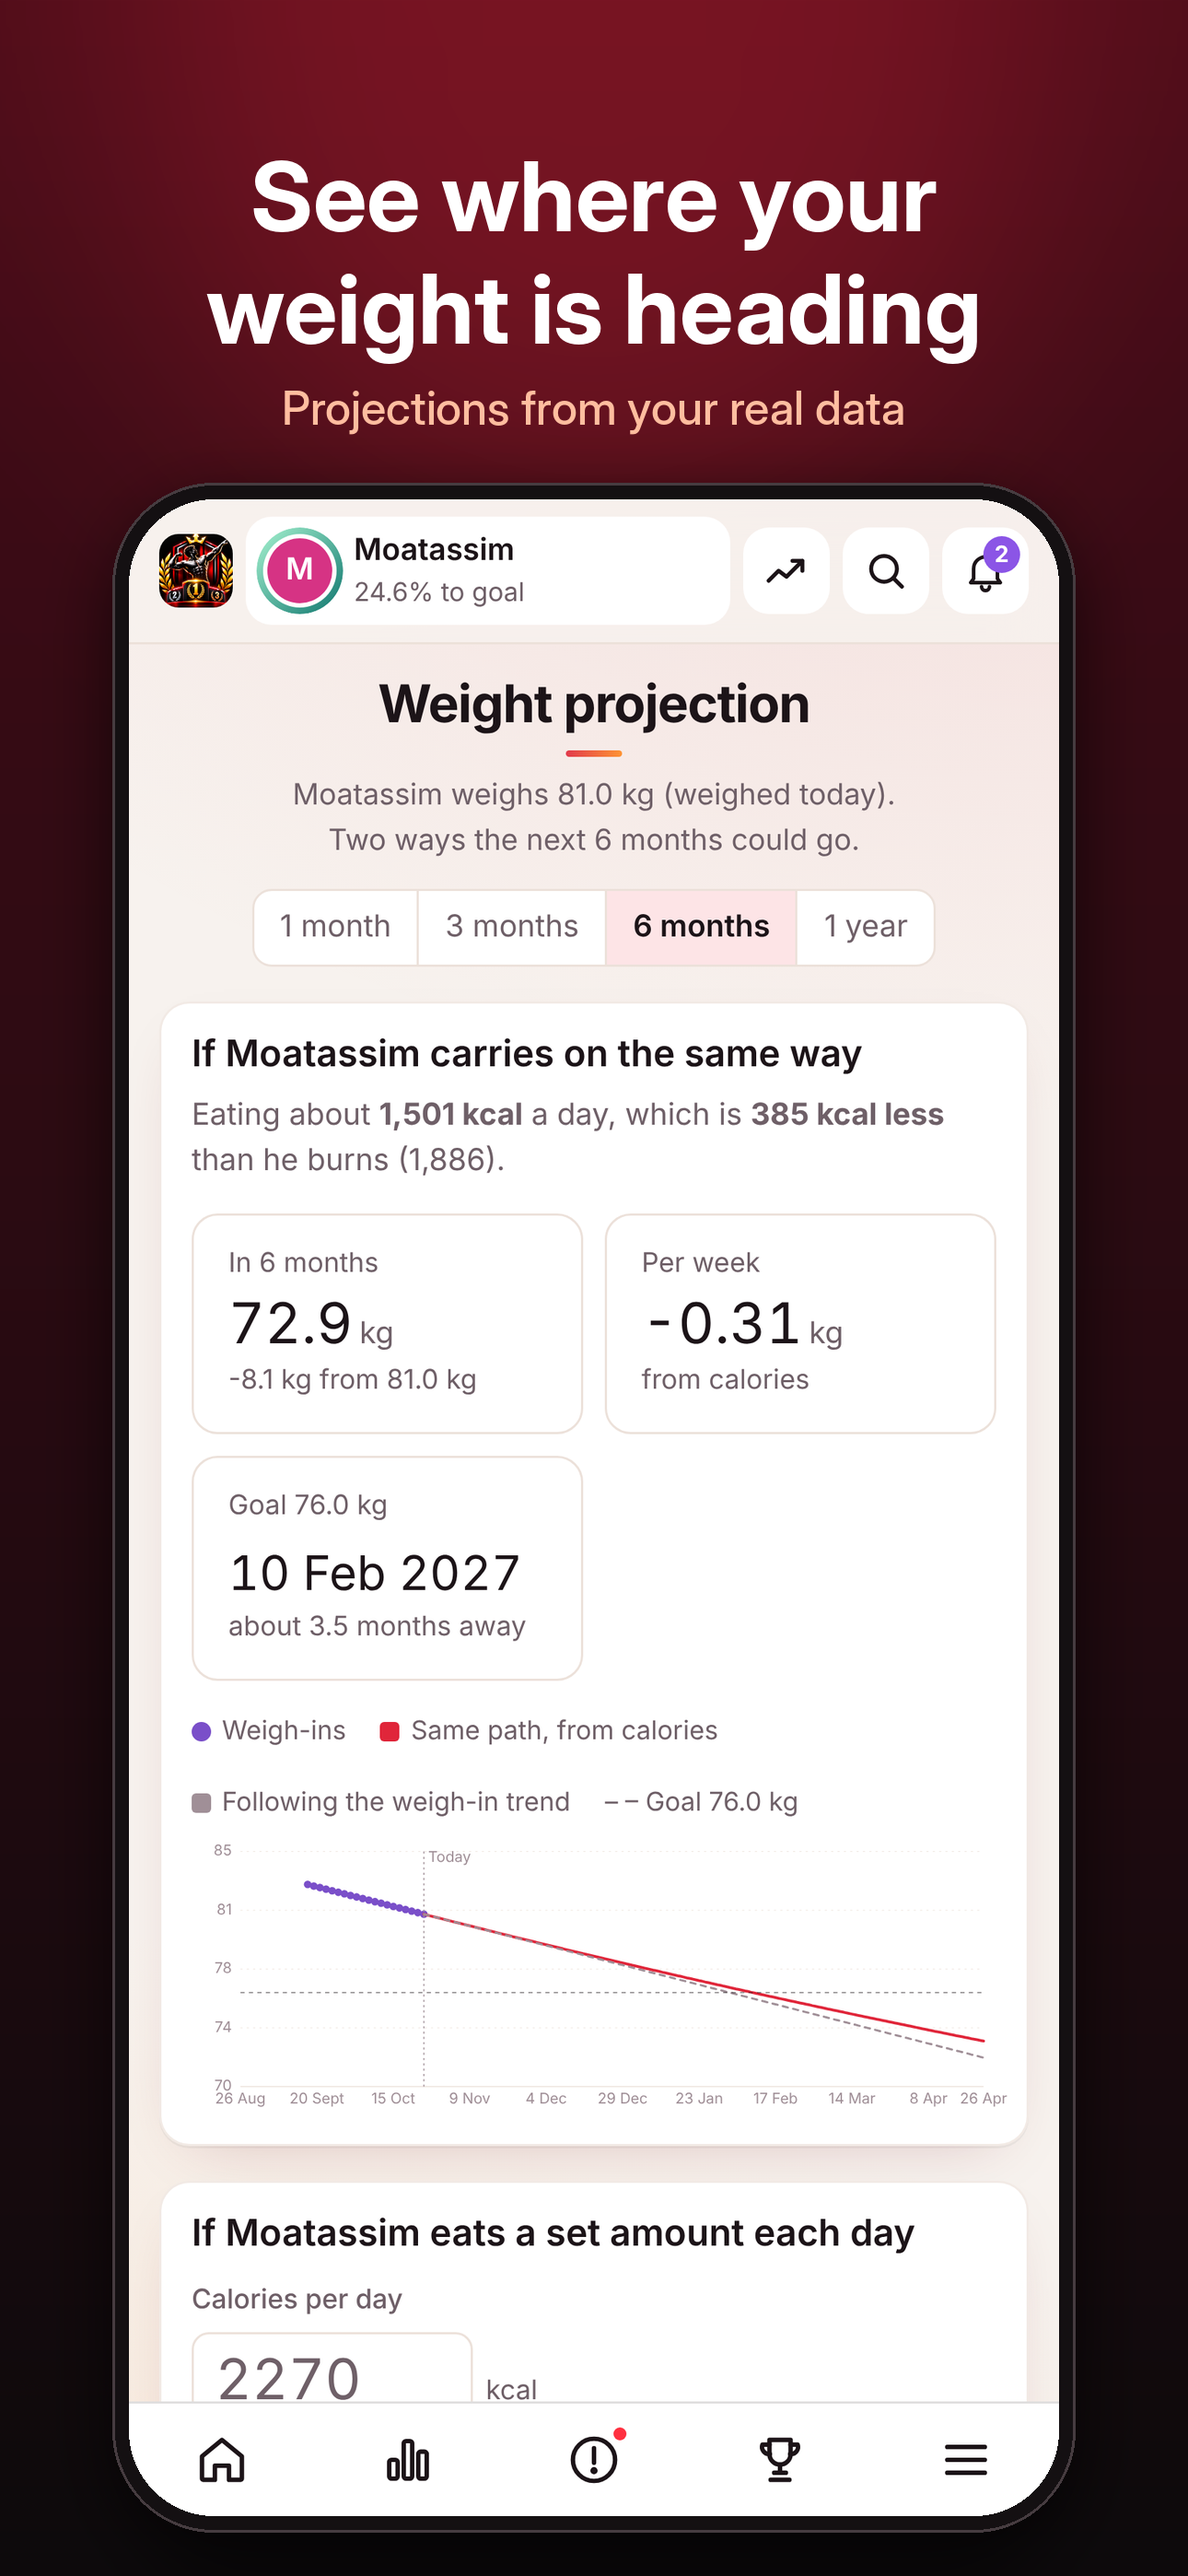
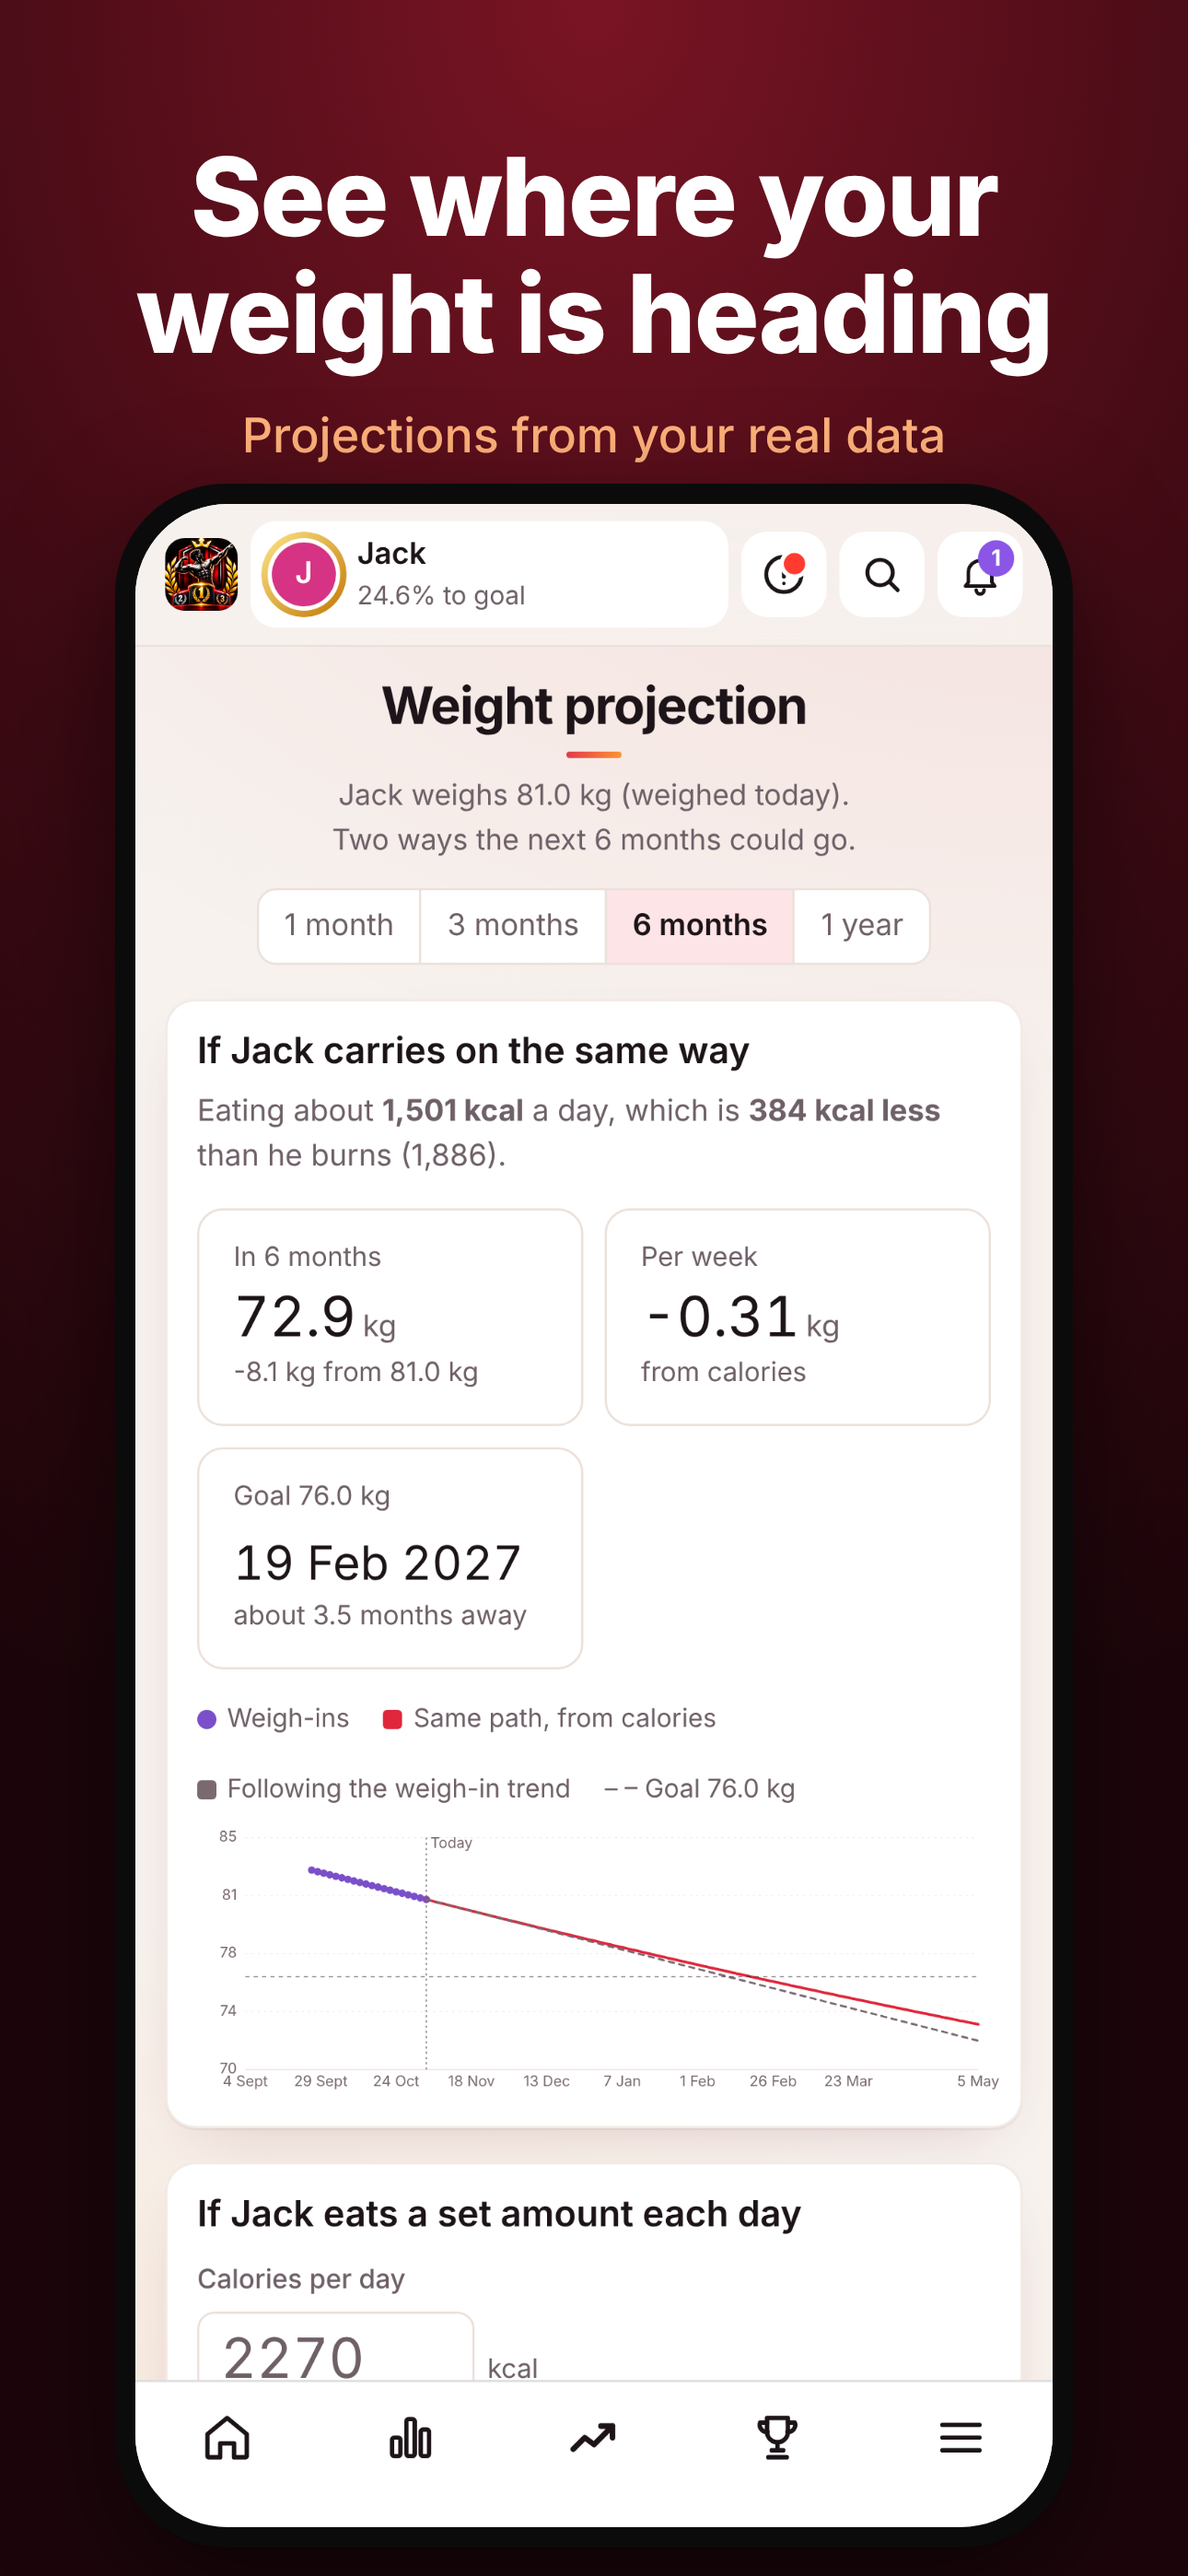
App Store screenshots with sample names (Jack, Emily, Oliver, Sophie, Harry); listing script can take a version out of review first
Claude-Session: https://claude.ai/code/session_01U2T5VJkG9pw6HGxf4DJnrt

diff --git a/native/asc_listing.py b/native/asc_listing.py
@@ -83,6 +83,14 @@ def age_rating():
     raise RuntimeError('age rating did not save')
 step('age rating', age_rating)
 
+if os.environ.get('CANCEL') == 'yes':  # take a waiting submission out of review so the listing can be edited
+    for sub in call('GET', f'/v1/reviewSubmissions?filter[app]={APP}&filter[platform]=IOS&limit=20')['data']:
+        if sub['attributes'].get('state') == 'WAITING_FOR_REVIEW':
+            call('PATCH', f'/v1/reviewSubmissions/{sub["id"]}', {'data': {'type': 'reviewSubmissions', 'id': sub['id'], 'attributes': {'canceled': True}}}); note('cancelled waiting submission')
+            for _ in range(20):
+                time.sleep(6)
+                if call('GET', f'/v1/reviewSubmissions/{sub["id"]}')['data']['attributes'].get('state') != 'CANCELING': break
+    time.sleep(5)
 vers = call('GET', f'/v1/apps/{APP}/appStoreVersions?filter[platform]=IOS&limit=5')['data']
 ver = next((v for v in vers if v['attributes'].get('appStoreState') in ('PREPARE_FOR_SUBMISSION', 'DEVELOPER_REJECTED', 'REJECTED', 'METADATA_REJECTED')), None)
 if not ver:
